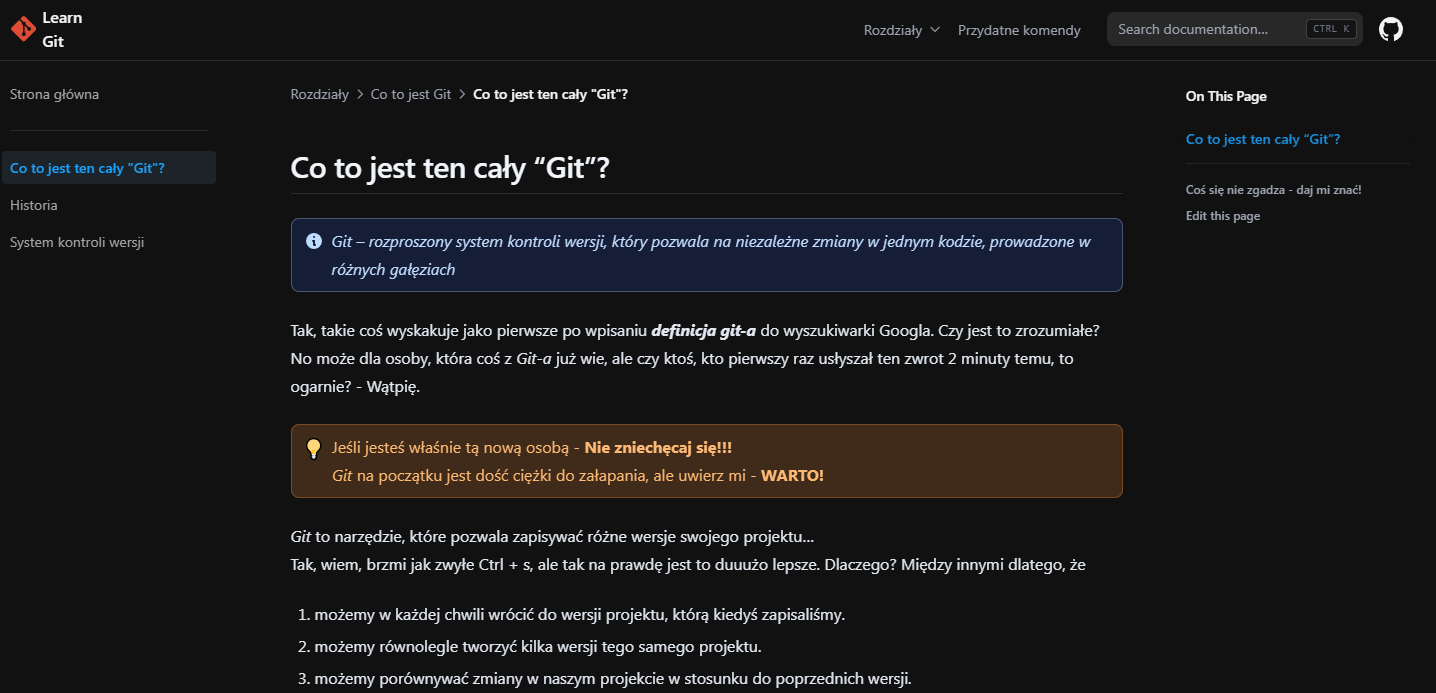
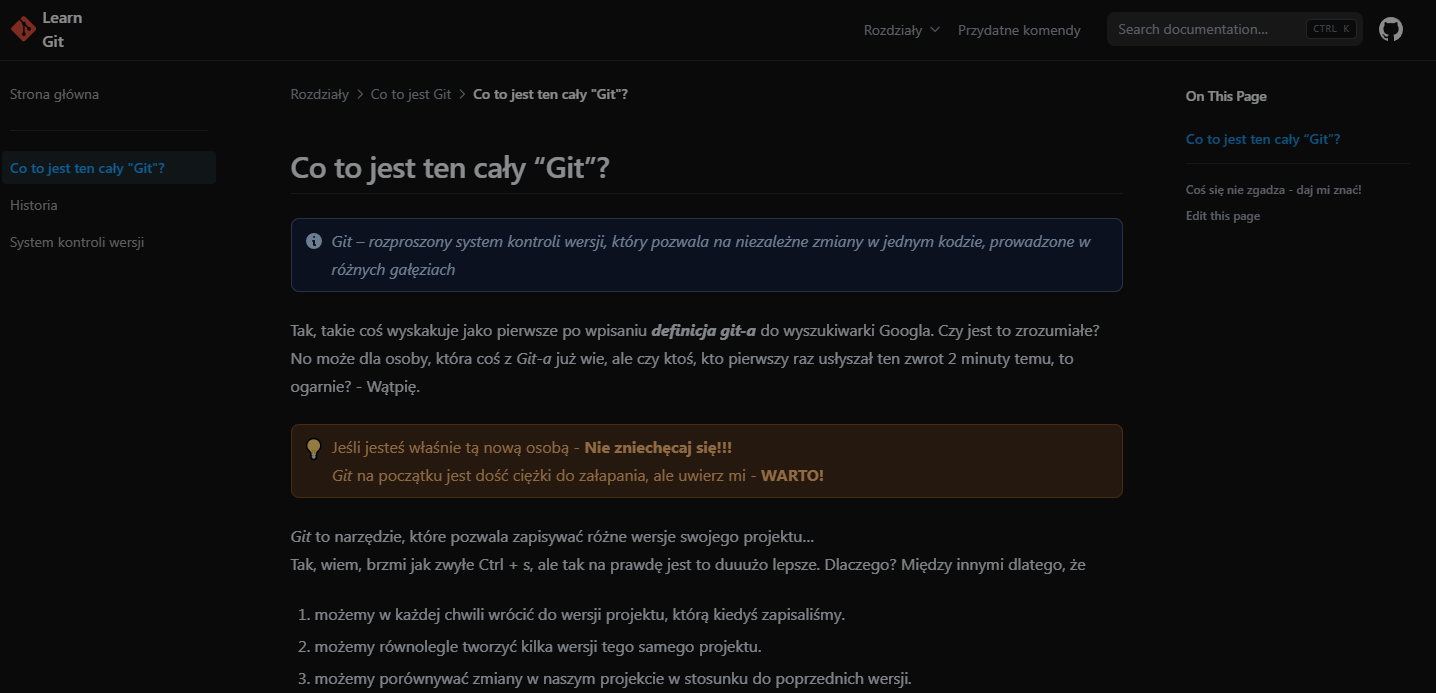
Portfolio update

diff --git a/src/Portfolio.js b/src/Portfolio.js
@@ -32,7 +32,7 @@ const Portfolio = ({ openProjectDetail }) => {
                 </div>
                 <ul className="nav-links">
                     <li><a href="#roadmap" className="nav-link">Career Roadmap</a></li>
-                    <li><a href="#projects" className="nav-link">Projects</a></li>
+                    <li><a href="#projects-other" className="nav-link">Projects</a></li>
                     <li><a href="#contact" className="nav-link">Contact</a></li>
                 </ul>
             </nav>
@@ -44,6 +44,60 @@ const Portfolio = ({ openProjectDetail }) => {
             </header>
 
             <Roadmap/>
+
+            <section id="projects-other" className="projects-section">
+                <h2 className="section-title">My Projects</h2>
+                <div className="projects-grid">
+                    <div className="project-card" onClick={() => openProjectDetail('cubeSolver')}>
+                        <img className="project-image" src={"/images/CubeSolver.png"} alt={"Rubik's cube solver"}/>
+                        <h3 className="project-title">Rubik's cube solver</h3>
+                        <p className="project-description">3D Rubik's cube simulation with solver (LBL method)</p>
+                    </div>
+                    <div className="project-card" onClick={() => openProjectDetail('gitCourse')}>
+                        <img className="project-image" src={"/images/git.png"} alt={"Git Course"}/>
+                        <h3 className="project-title">Git Course</h3>
+                        <p className="project-description">Git course for beginners</p>
+                    </div>
+                    <div className="project-card" onClick={() => openProjectDetail('learningPlatformDB')}>
+                        <img className="project-image" src={"/images/LearningPlatformDB.png"}
+                             alt={"Learning Platform Database System"}/>
+                        <h3 className="project-title">Learning Platform Database System</h3>
+                        <p className="project-description">Database system for a company offering learning courses,
+                            webinars, and studies.</p>
+                    </div>
+                    <div className="project-card" onClick={() => openProjectDetail('darwinWorld')}>
+                        <img className="project-image" src={"/images/darwinWorld.png"}
+                             alt={"Darwin World"}/>
+                        <h3 className="project-title">Darwin World</h3>
+                        <p className="project-description">Simulation of Fighting for Survival</p>
+                    </div>
+                    <div className="project-card" onClick={() => openProjectDetail('neuralDungeon')}>
+                        <img className="project-image" src={"/images/neuralDungeon.png"}
+                             alt={"Neural Dungeon"}/>
+                        <h3 className="project-title">Neural Dungeon</h3>
+                        <p className="project-description">3D Game with Procedurally Generated Levels and Adaptive AI
+                            Opponents</p>
+                    </div>
+                    <div className="project-card" onClick={() => openProjectDetail('cinemaProject')}>
+                        <img className="project-image" src={"/images/CinemaProject.png"}
+                             alt={"Cinema Project"}/>
+                        <h3 className="project-title">Cinema Project</h3>
+                        <p className="project-description">Cinema management window app</p>
+                    </div>
+                    <div className="project-card" onClick={() => openProjectDetail('chessSimulator')}>
+                        <img className="project-image" src={"/images/chessSimulator.png"}
+                             alt={"Chess Simulator"}/>
+                        <h3 className="project-title">Chess Simulator</h3>
+                        <p className="project-description">Simple chess game simulator</p>
+                    </div>
+                    <div className="project-card" onClick={() => openProjectDetail('aghPinpals')}>
+                        <img className="project-image" src={"/images/PinPals.png"}
+                             alt={"Pin Pals"}/>
+                        <h3 className="project-title">AGH Pin Pals</h3>
+                        <p className="project-description">Mobile application designed for AGH students</p>
+                    </div>
+                </div>
+            </section>
 
             <section id="projects" className="projects-section">
                 <h2 className="section-title">My Games</h2>
@@ -77,33 +131,13 @@ const Portfolio = ({ openProjectDetail }) => {
                 </div>
             </section>
 
-            <section id="projects-other" className="projects-section">
-                <h2 className="section-title">Other Projects</h2>
-                <div className="projects-grid">
-                    <div className="project-card" onClick={() => openProjectDetail('bridgeAnim')}>
-                        <img className="project-image" src={"/images/most.png"} alt={"Bridge animation"}/>
-                        <h3 className="project-title">Bridge animation</h3>
-                        <p className="project-description">Animation of walking bridge</p>
-                    </div>
-                    <div className="project-card" onClick={() => openProjectDetail('cubeSolver')}>
-                        <img className="project-image" src={"/images/CubeSolver.png"} alt={"Rubik's cube solver"}/>
-                        <h3 className="project-title">Rubik's cube solver</h3>
-                        <p className="project-description">3D Rubik's cube simulation with solver (LBL method)</p>
-                    </div>
-                    <div className="project-card" onClick={() => openProjectDetail('gitCourse')}>
-                        <img className="project-image" src={"/images/git.png"} alt={"Git Course"}/>
-                        <h3 className="project-title">Git Course</h3>
-                        <p className="project-description">Git course for beginners</p>
-                    </div>
-                </div>
-            </section>
 
             <section id="contact" className="contact-section">
                 <h2 className="section-title">Contact</h2>
                 <p className="contact-description">Feel free to reach out via email or social media.</p>
                 <a href={"https://github.com/Mikosztyla"} target="_blank" rel="noopener noreferrer"
                    className="project-link">
-                <FaGithub size={30}/>
+                    <FaGithub size={30}/>
                 </a>
                 <a href={"https://www.linkedin.com/in/mikosztyla"} target="_blank" rel="noopener noreferrer"
                    className="project-link">

diff --git a/src/ProjectDetail.js b/src/ProjectDetail.js
@@ -84,6 +84,66 @@ const ProjectDetail = ({ projectId, closeProjectDetail }) => {
             responsibilities: null,
             showcase: null
         },
+        learningPlatformDB: {
+            title: 'Learning Platform Database System',
+            description: 'This project is a simple database system for a company offering learning courses, webinars, and studies. It allows managing courses, students, teachers, webinars, studies, and more. Designed as a foundational solution, it can serve as a base for more complex educational systems.',
+            images: [],
+            github: 'https://github.com/Mikosztyla/Learning-Platform-Database-System',
+            youtube: null,
+            itch: null,
+            responsibilities: 'In this project I:\n- co-designed the database schema\n- implemented SQL procedures, triggers, views, and functions\n- collaborated closely with a team of three to complete a fully working backend structure for an education-focused platform',
+            showcase: null
+        },
+        darwinWorld: {
+            title: 'Darwin World: Simulation of Fighting for Survival',
+            description: 'Final project for the Object-Oriented Programming course at AGH University of Krakow. This graphical JavaFX application simulates a simplified version of natural selection, where animals randomly traverse the map, eat grass to gain energy, reproduce, and eventually die if they run out of energy. The simulation includes customizable parameters, configuration saving, and CSV export for daily statistics like population and average energy.',
+            images: [],
+            github: 'https://github.com/Mikosztyla/Darwin-world',
+            youtube: null,
+            itch: null,
+            responsibilities: 'In this project I:\n- co-implemented core simulation logic, including animal movement, energy system, and reproduction mechanics\n- developed configuration and statistics export features (CSV)\n- co-designed the GUI and simulation controls using JavaFX',
+            showcase: null
+        },
+        neuralDungeon: {
+            title: '3D Game with Procedurally Generated Levels and Adaptive AI',
+            description: 'IN PROGRESS\nThis Bachelor’s thesis project aims to develop a 3D game featuring procedurally generated levels composed of corridors and rooms. The goal is to design algorithms that generate unique, playable maps to ensure high replayability. The game will include AI-controlled enemies capable of adapting dynamically to player behavior for enhanced immersion and challenge. The project will be built in Unity using advanced techniques such as inverse kinematics, Marching Cubes, and the Bowyer-Watson algorithm.',
+            images: [],
+            github: null,
+            youtube: 'https://youtu.be/DrzbOKQONlU',
+            itch: null,
+            responsibilities: 'In this project I:\n- co-implemented procedural map generation using Bowyer-Watson and Marching Cubes algorithms\n- developed procedural animation systems using inverse kinematics',
+            showcase: null
+        },
+        cinemaProject: {
+            title: 'Cinema Project',
+            description: 'Window-based cinema management application built in Java using JavaFX, Spring, and REST APIs. This project enables both users and administrators to interact with a cinema system through a clean UI. Users will be able to browse movies, reserve seats, and provide feedback, while admins will manage screenings, analyze statistics, and oversee system-wide content. Key features include authentication, role-based access, and user notifications.',
+            images: [],
+            github: 'https://github.com/pajka2T/Cinema-app',
+            youtube: null,
+            itch: null,
+            responsibilities: 'In this project I:\n- co-implemented seat reservation and user rating features\n- developed parts of the REST backend in Spring\n- handled authentication logic and error checking for invalid actions\n- contributed to the JavaFX UI and role-based view differentiation',
+            showcase: null
+        },
+        chessSimulator: {
+            title: 'Chess Simulator',
+            description: 'A Java-based simulator of chess pieces, featuring a simple graphical representation of the chessboard and implementation of all standard chess rules. Developed as a solo project with a strong emphasis on clean code principles and maintainability. The application provides full movement logic and validation for all piece types, ensuring rule-compliant gameplay.',
+            images: [],
+            github: 'https://github.com/Mikosztyla/ChessSimulator',
+            youtube: null,
+            itch: null,
+            responsibilities: 'This project was developed entirely by myself.\n- implemented full chess logic and rule validation\n- focused on clean code practices and maintainable structure',
+            showcase: null
+        },
+        aghPinpals: {
+            title: 'AGH PinPals',
+            description: 'Mobile application designed for AGH students to help them connect and locate friends across the university campus and student housing area. Users can pin their current location, tag the purpose of their meetup, and discover events and promotions around the AGH Campus. The app supports public and private pins, tag-based filtering, and live event maps. Built with Flutter on the frontend and Spring Boot + MySQL on the backend.',
+            images: [],
+            github: 'https://github.com/AGH-Friend-FInder/agh_pin_palls',
+            youtube: null,
+            itch: null,
+            responsibilities: 'In this project I:\n- developed the backend in Spring Boot\n- designed and implemented RESTful APIs for pin creation, filtering, and event management\n- integrated MySQL for data persistence\n- ensured proper user role separation and data visibility for public/private pins',
+            showcase: null
+        }
     };
 
     const project = projectData[projectId];
